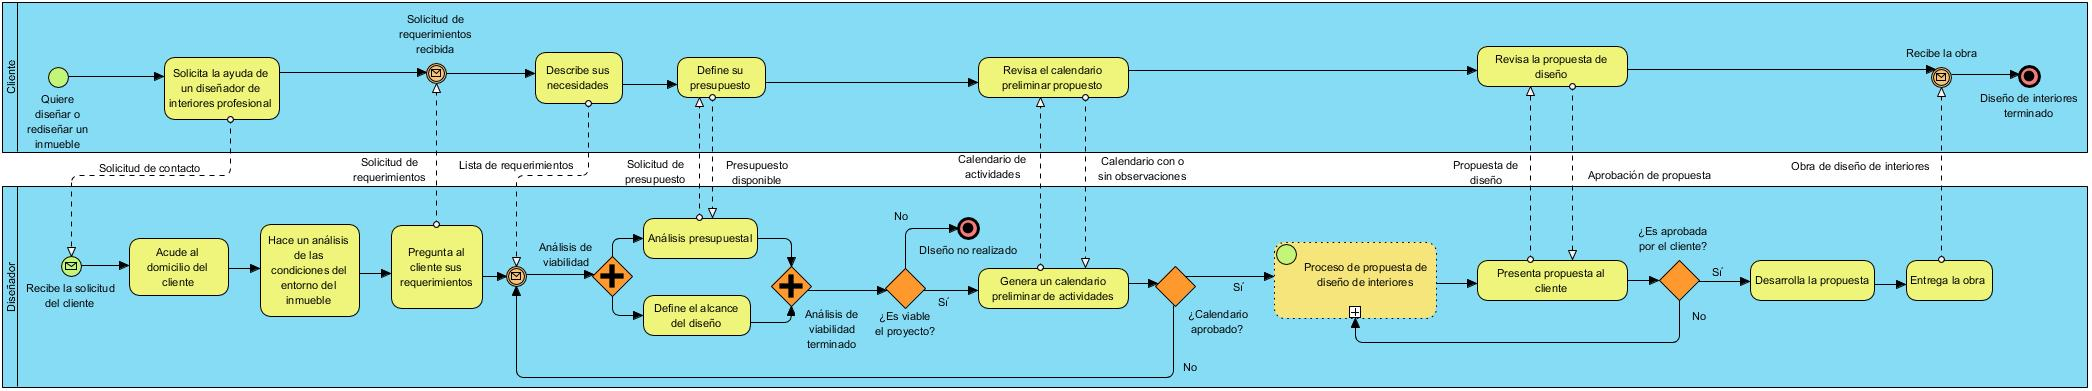
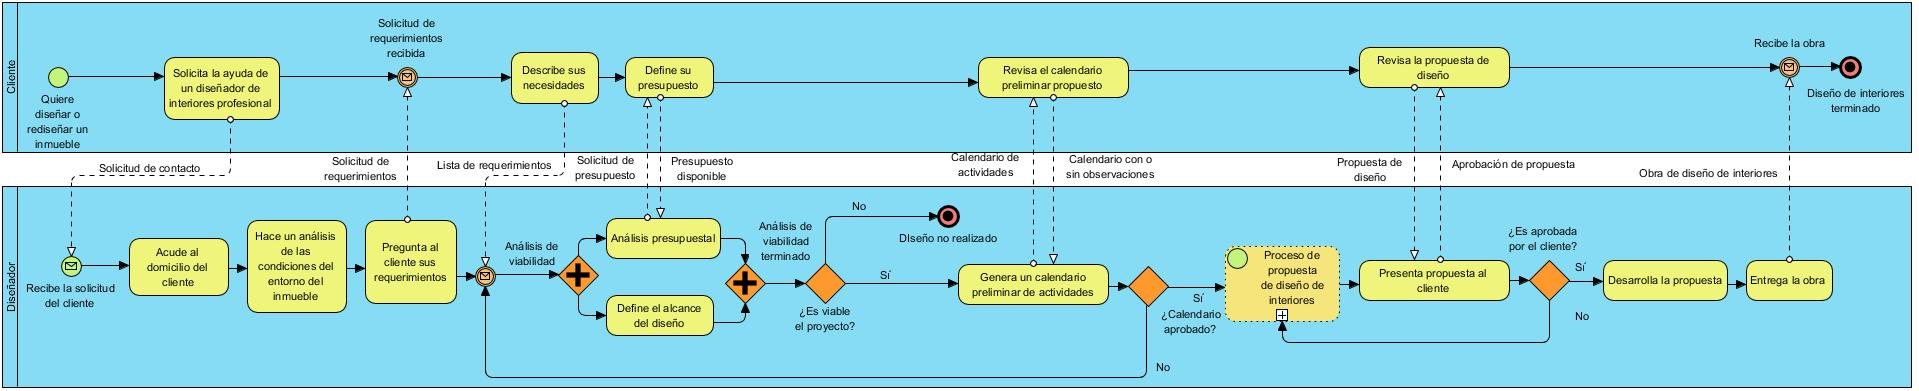
Redaccion de sección de BPMN corregida

diff --git a/TT2018-A002/introduccion/secciones/contextoDeTrabajo.tex b/TT2018-A002/introduccion/secciones/contextoDeTrabajo.tex
@@ -4,14 +4,25 @@ Actualmente vivimos en un entorno que dominado por la tecnología. Día a día s
 
 
 Por otro lado también nos encontramos en una época donde el diseño es un área de gran importancia en cualquier sector del mercado, por ejemplo, un buen diseño web en un sitio es fundamental lograr que un producto se logre vender o difundir, un buen diseño gráfico en campañas de marketing asegura más clientes; de igual forma nos encontramos con el diseño de interiores. Para ésta última área se suelen contratar diseñadores de interiores profesionales para lograr que los espacios interiores de un inmueble consigan tal armonía que mejoren la calidad de vida de quienes lo habitan y además generen un impacto en las personas que usan éstas habitaciones.\par
-El diseño de interiores no tiene un proceso estandarizado, sin embargo a nivel general, debe seguir el siguiente flujo: un cliente acude con un diseñador de interiores profesional quien acude a su domicilio para revisar los espacios interiores del inmueble, y conocer las necesidades y presupuesto del cliente. Con base en esta información, el diseñador elabora una propuesta de actividades donde se describen con detalles las actividades que van a involucrar el diseño de interiores así como la fecha en la que serán realizadas, también elabora una propuesta de diseño donde le muestra al cliente cómo se vería el resultado final, la cual puede ser a través de modelados 3D, o imágenes con fotomontajes. Cuando el cliente acepta ambas propuestas, el diseñador se dispone a realizar la obra hasta finalizarla.\par
-El proceso completo anteriormente descrito se puede observar en la figura 1.1 a través de un diagrama de proceso de negocio, en las figuras 1.2, 1.3, 1.4 se muestra el diagrama segmentado para una mejor lectura del mismo, y en la figura 1.5 puede observar el subproceso de la propuesta de diseño de interiores.\par
+El diseño de interiores profesional no sigue un proceso estandarizado, sin embargo a nivel general podemos ubicar las siguientes etapas:
+
+\begin{itemize}
+	\item El cliente acude con un diseñador de interiores profesional, quien acude al domicilio para conocer las condiciones del inmueble y conocer las necesidades y presupuesto del cliente.
+	\item Conociendo estos dos puntos el diseñador hace un análisis de viabilidad que se compone de un análisis presupuestal y la definición del alcance del diseño.
+	\item El diseñador le muestra esta información al cliente para que la apruebe, en caso de no ser así, el proyecto es considerado como no viable.
+	\item De ser viable el diseñador de interiores genera un calendario previo de actividades donde programa el cumplimiento de los requerimientos del cliente en determinadas fechas.
+	\item Si el cliente aprueba la propuesta de calendario, el diseñador se dispone a realizar el \textbf{proceso de propuesta de diseño de interiores} con el objetivo de mostrarle al cliente el resultado final previo de la obra antes de que sea realizada, esta propuesta puede mostrarse de varias formas como fotografías con fotomontajes, una explicación verbal con fotografías de apoyo (de muebles o habitaciones ya decoradas) o un modelado tridimensional del resultado de la obra; se suele usar un modelado tridimensional pues es lo más cercano a la realidad que se le puede mostrar al cliente. Si el cliente no aprueba la propuesta de calendario, se debe volver a realizar el análisis de viabilidad para ajustarse a las necesidades y presupuesto del cliente.
+	\item El diseñador le muestra la propuesta de diseño al cliente y si esta es aceptada, se inicia el desarrollo de la obra con base en las fechas establecidas.
+	\item Finalmente el diseñador entrega la obra al cliente y termina el proceso de diseño de interiores.
+\end{itemize}
+
+El proceso completo anteriormente descrito se puede observar en la figura 1.1 a través de un diagrama de proceso de negocio, en las figuras 1.2 y 1.3 se muestra el diagrama segmentado para una mejor lectura del mismo, y en la figura 1.4 puede observar el \textbf{proceso de propuesta de diseño de interiores}.\par
 Teniendo a la mano una gran diversidad de herramientas tecnológicas, podemos usar estos elementos para lograr que el diseño de interiores sea más sencillo y rápido, tanto para un diseñador de interiores que vaya a realizar una obra para algún cliente, como para alguien que desee diseñar o rediseñar su propio inmueble.
 \newpage
 
 \begin{figure}[!htbp]
 	\centering
-	\includegraphics[width=18cm,angle=270,origin=c]{imagenes/marcoteorico/bpmn/proceso_full.jpg}
+	\includegraphics[width=20cm,angle=270,origin=c]{imagenes/marcoteorico/bpmn/proceso_full.jpg}
 	\caption{Modelo del proceso de diseño de interiores (Completo).}
 	\label{fig:bpmn_antes}
 \end{figure}
@@ -19,7 +30,7 @@ Teniendo a la mano una gran diversidad de herramientas tecnológicas, podemos us
 
 \begin{figure}[!htbp]
 	\centering
-	\includegraphics[width=18cm,angle=270,origin=c]{imagenes/marcoteorico/bpmn/proceso_01_01.jpg}
+	\includegraphics[width=19cm,angle=270,origin=c]{imagenes/marcoteorico/bpmn/proceso_01_01.jpg}
 	\caption{Modelo del proceso de diseño de interiores (Segmento I).}
 	\label{fig:bpmn_antes}
 \end{figure}
@@ -27,16 +38,8 @@ Teniendo a la mano una gran diversidad de herramientas tecnológicas, podemos us
 
 \begin{figure}[!htbp]
 	\centering
-	\includegraphics[width=18cm,angle=270,origin=c]{imagenes/marcoteorico/bpmn/proceso_02_01.jpg}
+	\includegraphics[width=19cm,angle=270,origin=c]{imagenes/marcoteorico/bpmn/proceso_02_01.jpg}
 	\caption{Modelo del proceso de diseño de interiores (Segmento II).}
-	\label{fig:bpmn_antes}
-\end{figure}
-\newpage
-
-\begin{figure}[!htbp]
-	\centering
-	\includegraphics[width=18cm,angle=270,origin=c]{imagenes/marcoteorico/bpmn/proceso_03_01.jpg}
-	\caption{Modelo del proceso de diseño de interiores (Segmento III).}
 	\label{fig:bpmn_antes}
 \end{figure}
 \newpage

diff --git a/TT2018-A002/analisis/secciones/diagramasSecuencia.tex b/TT2018-A002/analisis/secciones/diagramasSecuencia.tex
@@ -7,22 +7,23 @@ El inicio de sesión consiste en la captura de usuario y contraseña de una cuen
 
 \begin{figure}[h!]
 	\centering
-	\includegraphics[width=14cm,height=8cm]{imagenes/analisis/ds/dsinicio_sesion.jpg}
+	\includegraphics[width=14cm,height=14cm]{imagenes/analisis/ds/dsinicio_sesion.jpg}
 	\caption{DS1. Inicio de sesión.}
 	\label{fig:dsiniciosesion}
 \end{figure}
 
+\clearpage
 
 \subsection{DS2. Registro de cuenta}
 El registro de cuenta consiste en la captura de nombre, email y contraseña. La contraseña se deberá repetir. Esos datos se envían en formato JSON a AWS API Gateway la cual se encarga de ejecutar la AWS Lambda \textit{ARFRegisterAccount}. Esta función se encarga primero de consultar el correo para verificar que se cumpla la regla de negocio \textbf{BR1}. Si la regla se cumple, entonces el usuario es registrado por esta función. Ya sea que la inserción sea realizado con éxito o no, la función construye nu JSON de respuesta que contiene el status de la operación, y esta respuesta es manipulada por la aplicación para mostrar en pantalla un error, o redirigir el usuario a la pantalla de Inicio de sesión.
 
 \begin{figure}[h!]
 	\centering
-	\includegraphics[width=14cm,height=8cm]{imagenes/analisis/ds/RegCuenta.jpg}
+	\includegraphics[width=14cm,height=16cm]{imagenes/analisis/ds/RegCuenta.jpg}
 	\caption{DS2. Registro de cuenta.}
 	\label{fig:dsregcuenta}
 \end{figure}
-
+\clearpage
 
 \subsection{DS3. Recuperación de cuenta}
 El proceso de recuperación se divide en tres pasos:
@@ -34,11 +35,11 @@ El proceso de recuperación se divide en tres pasos:
 
 \begin{figure}[h!]
 	\centering
-	\includegraphics[width=14cm,height=8cm]{imagenes/analisis/ds/RecCuenta.jpg}
+	\includegraphics[width=13cm,height=22cm]{imagenes/analisis/ds/RecCuenta.jpg}
 	\caption{DS3. Recuperación de cuenta.}
 	\label{fig:dsreccuenta}
 \end{figure}
-
+\clearpage
 
 \subsection{DS4. Gestión de proyectos}
 Aquí se presentan cinco escenarios: creación de proyecto, actualización de proyecto, eliminación de proyecto, obtención de proyecto, y obtención de proyectos de usuario.
@@ -56,7 +57,7 @@ Aquí se presentan cinco escenarios: creación de proyecto, actualización de pr
 	\caption{DS4. Gestión de proyectos.}
 	\label{fig:dsreccuenta}
 \end{figure}
-
+\clearpage
 
 
 \subsection{DS5. Gestión de escenarios}
@@ -71,7 +72,8 @@ Aquí se presentan cinco escenarios: creación de escenario, actualización de e
 
 \begin{figure}[h!]
 	\centering
-	\includegraphics[width=14cm,height=8cm]{imagenes/analisis/ds/CrearEscenario.jpg}
+	\includegraphics[width=14cm,height=20cm]{imagenes/analisis/ds/CrearEscenario.jpg}
 	\caption{DS5. Gestión de escenarios.}
 	\label{fig:dsreccuenta}
 \end{figure}
+\clearpage
